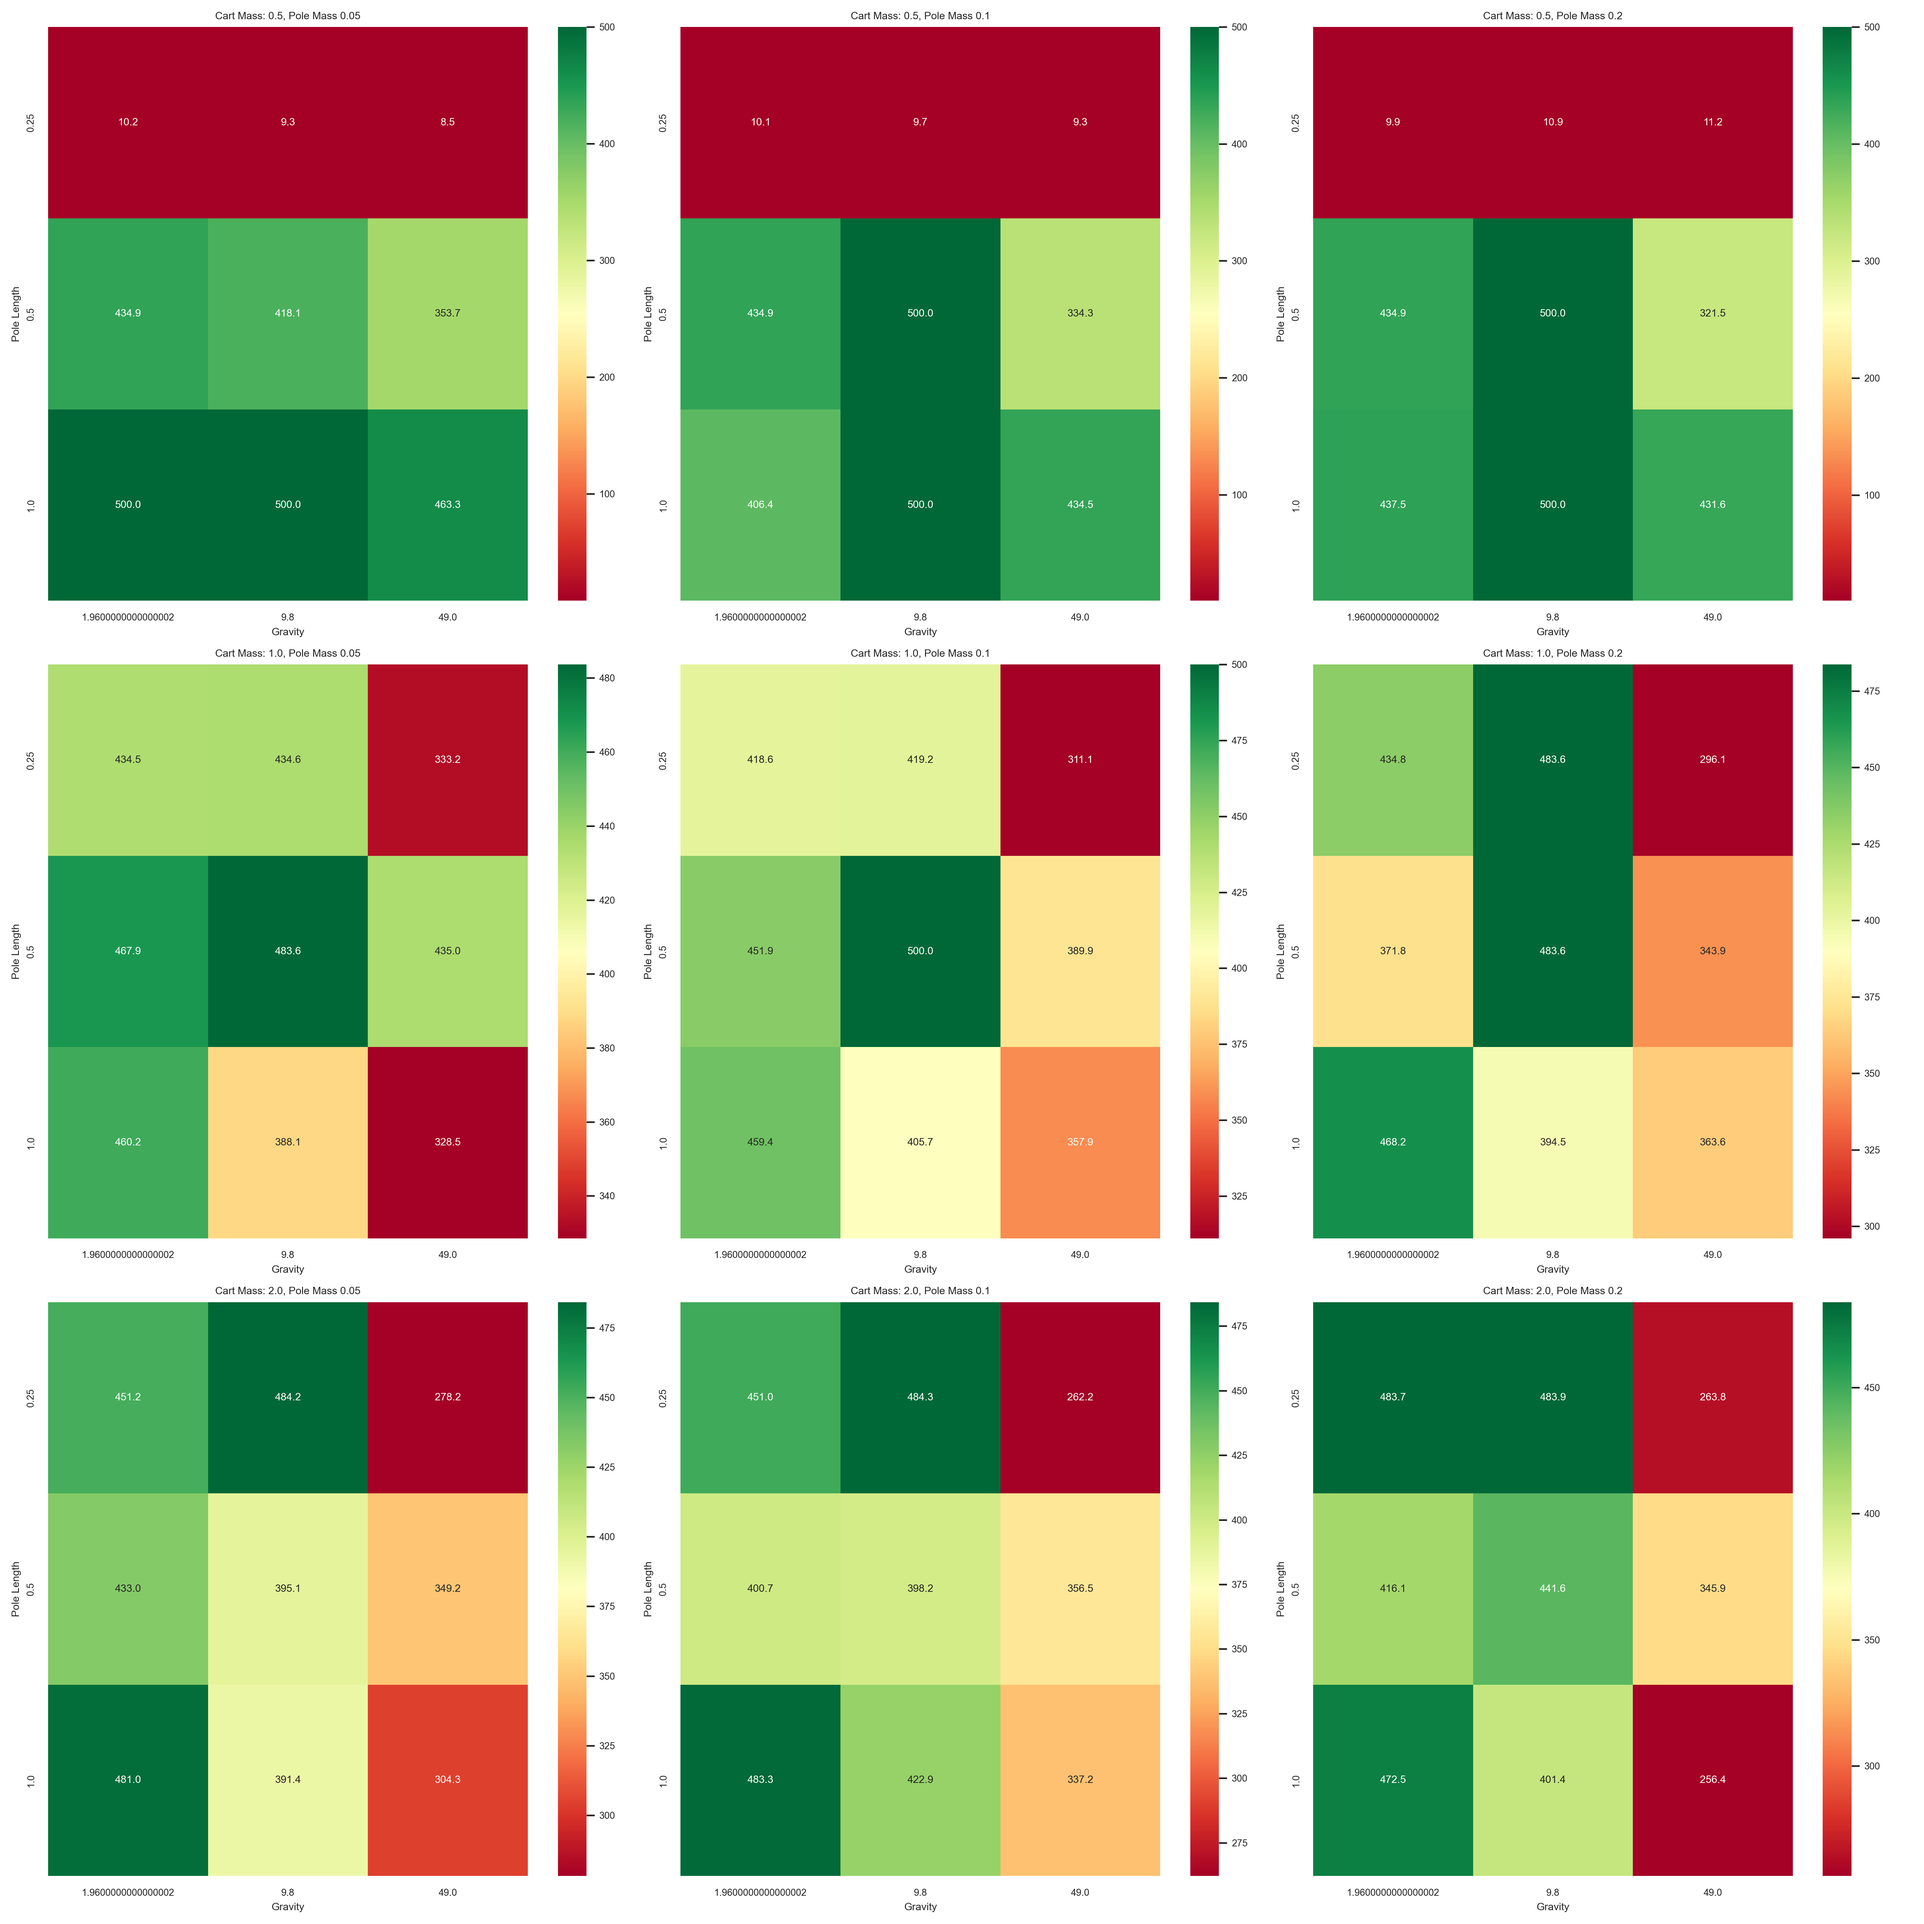
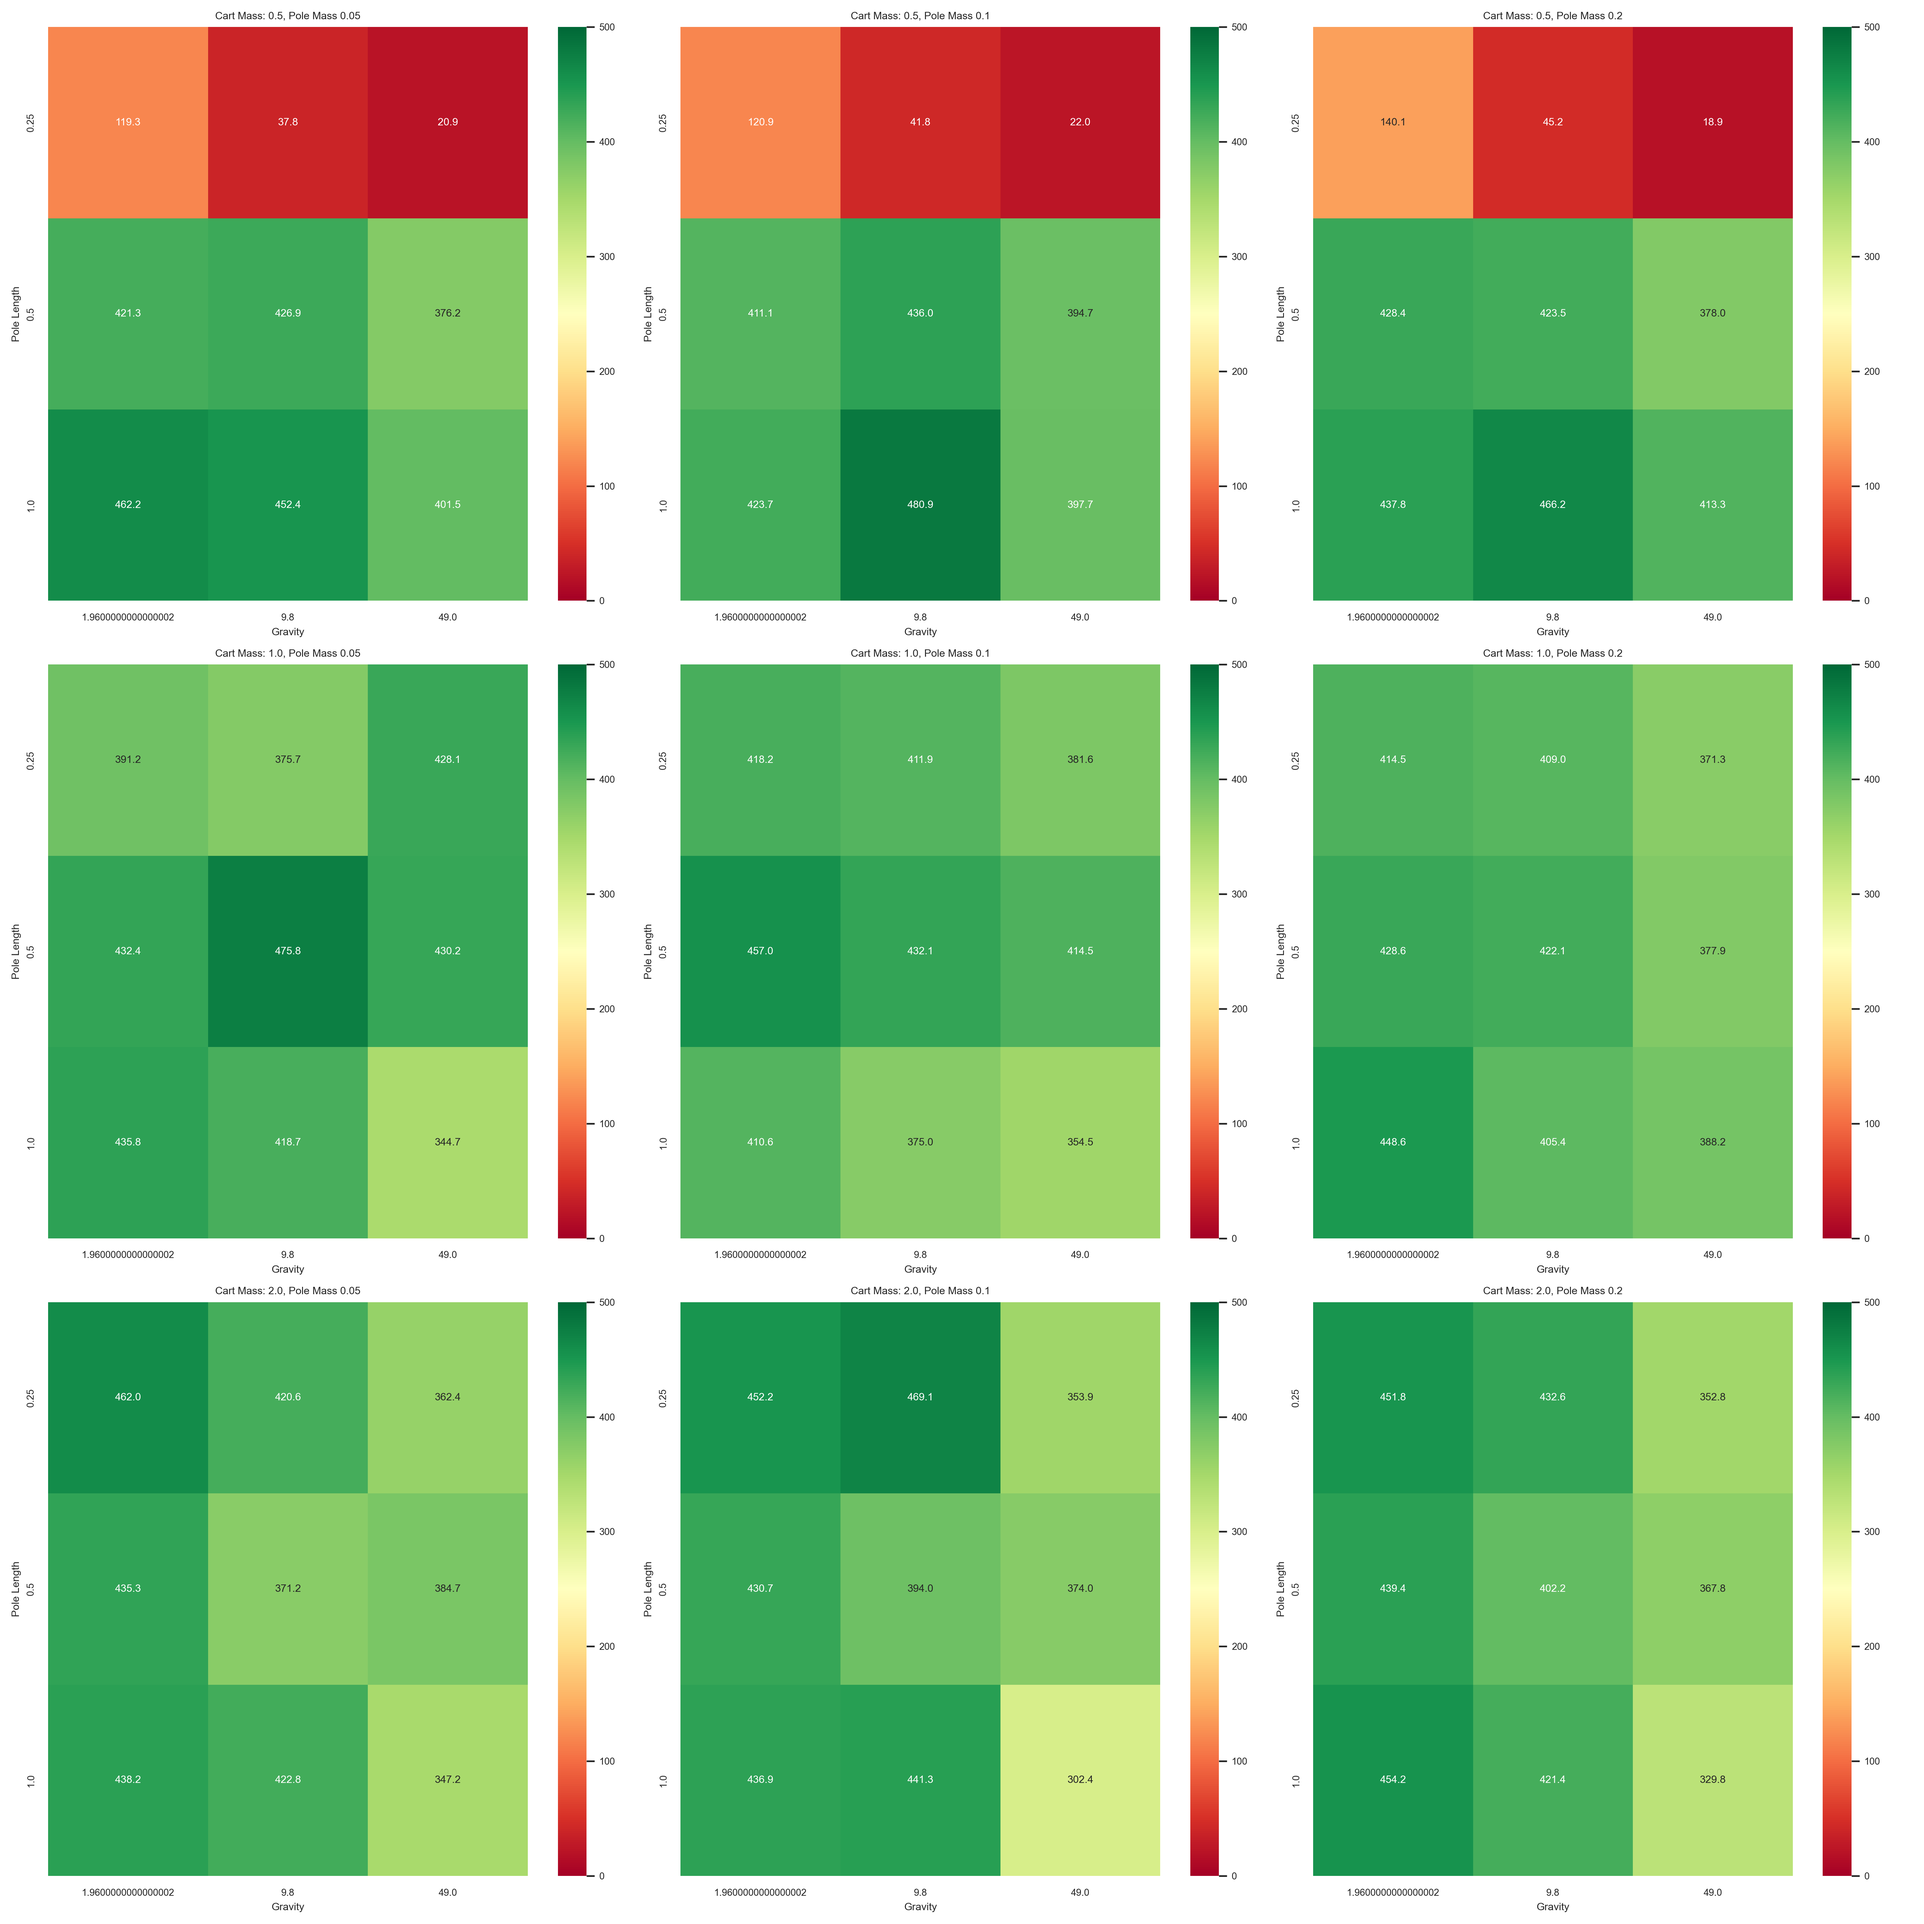
fix convergence adversarial

diff --git a/qlearning.py b/qlearning.py
@@ -12,11 +12,12 @@ class QLearningAgent:
         self.is_exploration_disabled = False
 
         self.Q = np.zeros((self.N_BUCKETS_ANGLE, self.N_BUCKETS_ANGLE_VEL, self.n_actions))
-        self.alpha = 0.3
+        self.alpha = 0.7
         self.alpha_decay = 0.9995
         self.gamma = 0.95
         self.epsilon = 1
         self.epsilon_decay = 0.995
+        self.n_iter = 0
     
     def discretize(self, obs):
         # our observation is a 4-tuple of floats: (x, x_dot, theta, theta_dot)
@@ -59,19 +60,23 @@ class QLearningAgent:
         if next_state is None:
             self.epsilon *= self.epsilon_decay
             self.alpha *= self.alpha_decay
+            print("Epsilon: {}, Alpha: {}".format(self.epsilon, self.alpha))
+            self.n_iter += 1
             return 
         angle_idx, angle_vel_idx = self.discretize(state[0])
-        if SHOULD_GENERATE_ADV:
+        original_next_angle_idx, original_next_angle_vel_idx = self.discretize(next_state[0])
+        if SHOULD_GENERATE_ADV and self.n_iter % 1 == 0:
             adversarial_state = torch.clone(state).detach().requires_grad_(True)
-            adv_optim = torch.optim.Adam([adversarial_state], lr=1e-3)
+            adv_optim = torch.optim.Adam([adversarial_state], lr=1e-2)
             prev_loss = 0
             n_iter = 0
             while True:
-                reward = torch.exp(-torch.abs(adversarial_state[0][2]))
-                cost = torch.norm(adversarial_state - state, p=2)
-                loss = reward + GAMMA_ADV * cost
-                if torch.abs(loss - prev_loss) < 1e-5:
-                    print("Converged in {} iterations".format(n_iter))
+                reward_adv = torch.exp(-torch.abs(adversarial_state[0][2]))
+                reward_next_state = torch.exp(-torch.abs(next_state[0][2]))
+                cost = torch.norm(adversarial_state - next_state, p=2)
+                loss = reward_adv + GAMMA_ADV * cost
+                if torch.abs(loss - prev_loss) < 1e-3:
+                    # print("Converged in {} iterations".format(n_iter))
                     break
                 prev_loss = loss
                 adv_optim.zero_grad()
@@ -80,6 +85,7 @@ class QLearningAgent:
                 n_iter += 1
             next_state = adversarial_state.detach()
         next_angle_idx, next_angle_vel_idx = self.discretize(next_state[0])
+        # print(original_next_angle_idx, original_next_angle_vel_idx, next_angle_idx, next_angle_vel_idx)
         max_Q = np.max(self.Q[next_angle_idx][next_angle_vel_idx])
         prev_Q = self.Q[angle_idx][angle_vel_idx][action]
         self.Q[angle_idx][angle_vel_idx][action] += self.alpha * (reward + self.gamma * max_Q - prev_Q) 

diff --git a/heatmap.py b/heatmap.py
@@ -4,7 +4,7 @@ import matplotlib.pyplot as plt
 import seaborn as sns
 import pandas as pd
 # Load the data
-with open('results_tabular_paper_adv.json', 'r') as f:
+with open('results_tabular_paper.json', 'r') as f:
     data = json.load(f)
 # Unique values for the parameters
 gravities = sorted(set(float(k.split(',')[0]) for k in data.keys()))
@@ -35,7 +35,7 @@ for i, cart_mass in enumerate(cart_masses):
                 # Store the confidence interval in the separate dictionary
                 ci_data.append(ci)
         # Create the heatmap
-        heatmap = sns.heatmap(df.astype(float), ax=ax, annot=True, fmt=".1f", cmap='RdYlGn')
+        heatmap = sns.heatmap(df.astype(float), ax=ax, annot=True, fmt=".1f", cmap='RdYlGn', vmin=0, vmax=500)
         heatmap.set_xlabel("Gravity")
         heatmap.set_ylabel("Pole Length")
         text_i = 0
@@ -45,4 +45,4 @@ for i, cart_mass in enumerate(cart_masses):
         ax.set_title(f"Cart Mass: {cart_mass}, Pole Mass {pole_mass}")
 
 plt.tight_layout()
-plt.savefig("heatmap_og_adv_tabular.png", dpi=300)
+plt.savefig("heatmap_og_nonadv_tabular.png", dpi=300)

diff --git a/main.py b/main.py
@@ -66,12 +66,12 @@ for _ in tqdm(range(20)):
                 episode_durations.append(t + 1)
                 print(f"Episode {i_episode} finished after {t+1} timesteps")
                 if episode_durations[-1] == 500:
-                    if agent.epsilon > 0.05:
-                        agent.epsilon = 0.05
-                        agent.epsilon_decay = 1
-                    if agent.alpha > 0.1:
-                        agent.alpha = 0.1
-                        agent.alpha_decay = 1
+                    if agent.epsilon > 0.01:
+                        agent.epsilon = 0.01
+                        agent.epsilon_decay = 0.9995
+                    if agent.alpha > 0.10:
+                        agent.alpha = 0.10
+                        agent.alpha_decay = 0.9995
                 # if the last 3 episodes have been at 500 timesteps, we have converged
                 if len(episode_durations) >= 20 and all([x == 500 for x in episode_durations[-20:]]):
                     print("Converged!")

diff --git a/test_harness.py b/test_harness.py
@@ -64,7 +64,7 @@ for gravity, masscart, masspole, length in tqdm(all_combinations):
             agent = QLearningAgent(n_observations, n_actions, env.action_space)
         elif SELECTED_AGENT == 'dqn':
             agent = DoubleDQNAgent(n_observations, n_actions, env.action_space)
-        agent.load('models/CartPole-v1-tabular-ADV-550-episodes-1685578796.9757571')
+        agent.load('models/CartPole-v1-tabular-NOADV-301-episodes-1685845293.703359')
         agent.disable_exploration()
         
         for t in count():
@@ -87,5 +87,5 @@ for gravity, masscart, masspole, length in tqdm(all_combinations):
     print(f'gravity={gravity}, masscart={masscart}, masspole={masspole}, length={length}, mean={mean}, std={std}')
     env.close()
 
-json.dump(results, open('results_tabular_paper_adv.json', 'w'))
+json.dump(results, open('results_tabular_paper.json', 'w'))
 

diff --git a/shared.py b/shared.py
@@ -2,8 +2,8 @@ from collections import namedtuple
 import torch
 
 SHOULD_PLOT = True 
-SHOULD_GENERATE_ADV = True 
-GAMMA_ADV = 1 
+SHOULD_GENERATE_ADV = True
+GAMMA_ADV = 1.3
 BATCH_SIZE = 64 
 GAMMA = 0.99
 EPS_START = 0.9
@@ -18,4 +18,4 @@ device = torch.device("cuda" if torch.cuda.is_available() else "cpu")
 NUM_EPISODES = 10000
 
 # Test Harness Parameters
-TEST_HARNESS_NUM_EPISODES = 30
+TEST_HARNESS_NUM_EPISODES = 100
